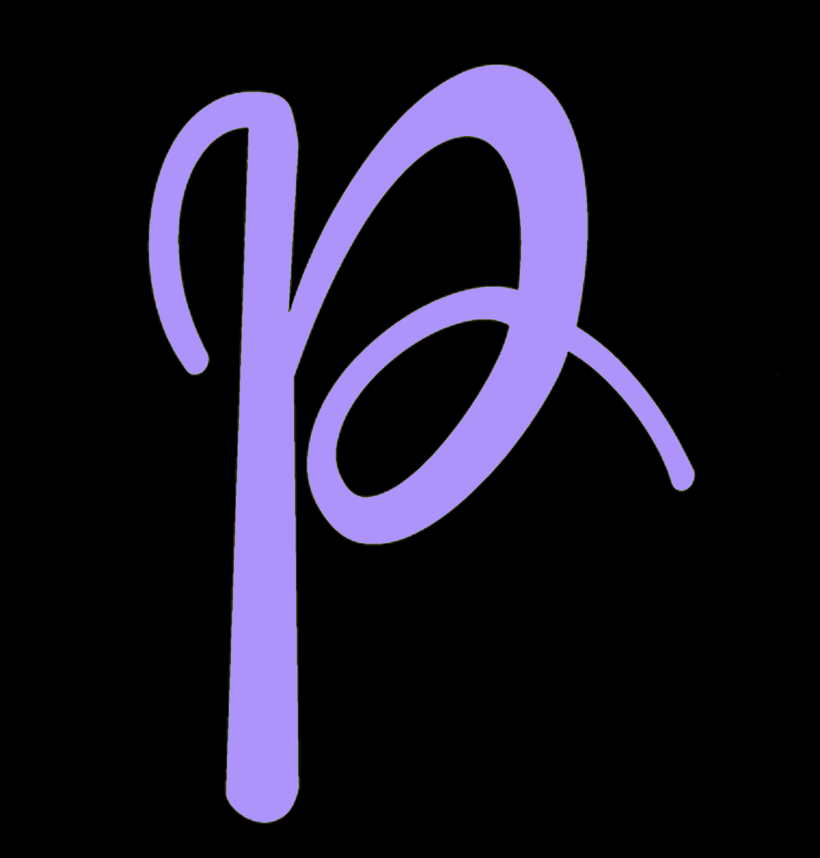
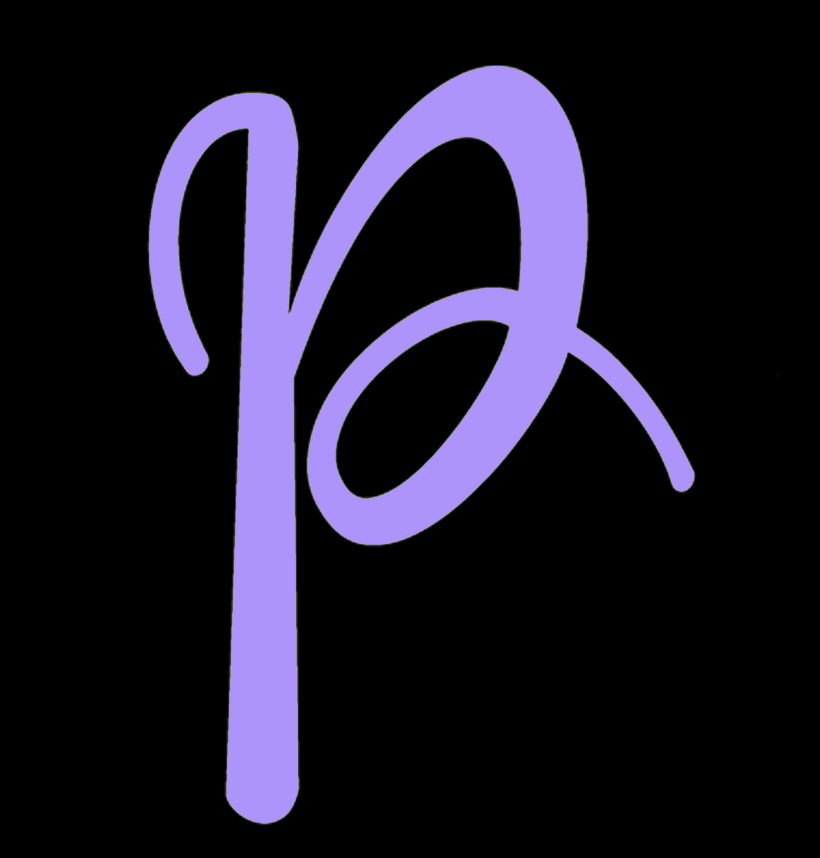
updated

diff --git a/index.html b/index.html
@@ -23,7 +23,7 @@
     <title>Prachi's Portfolio</title>
 
       <!---Fevicon-->
-      <link rel="icon" type="fav" href="Images/p.png">
+      <link rel="icon" type="fav" href="Images/pp.png">
 
 </head>
 <body>
